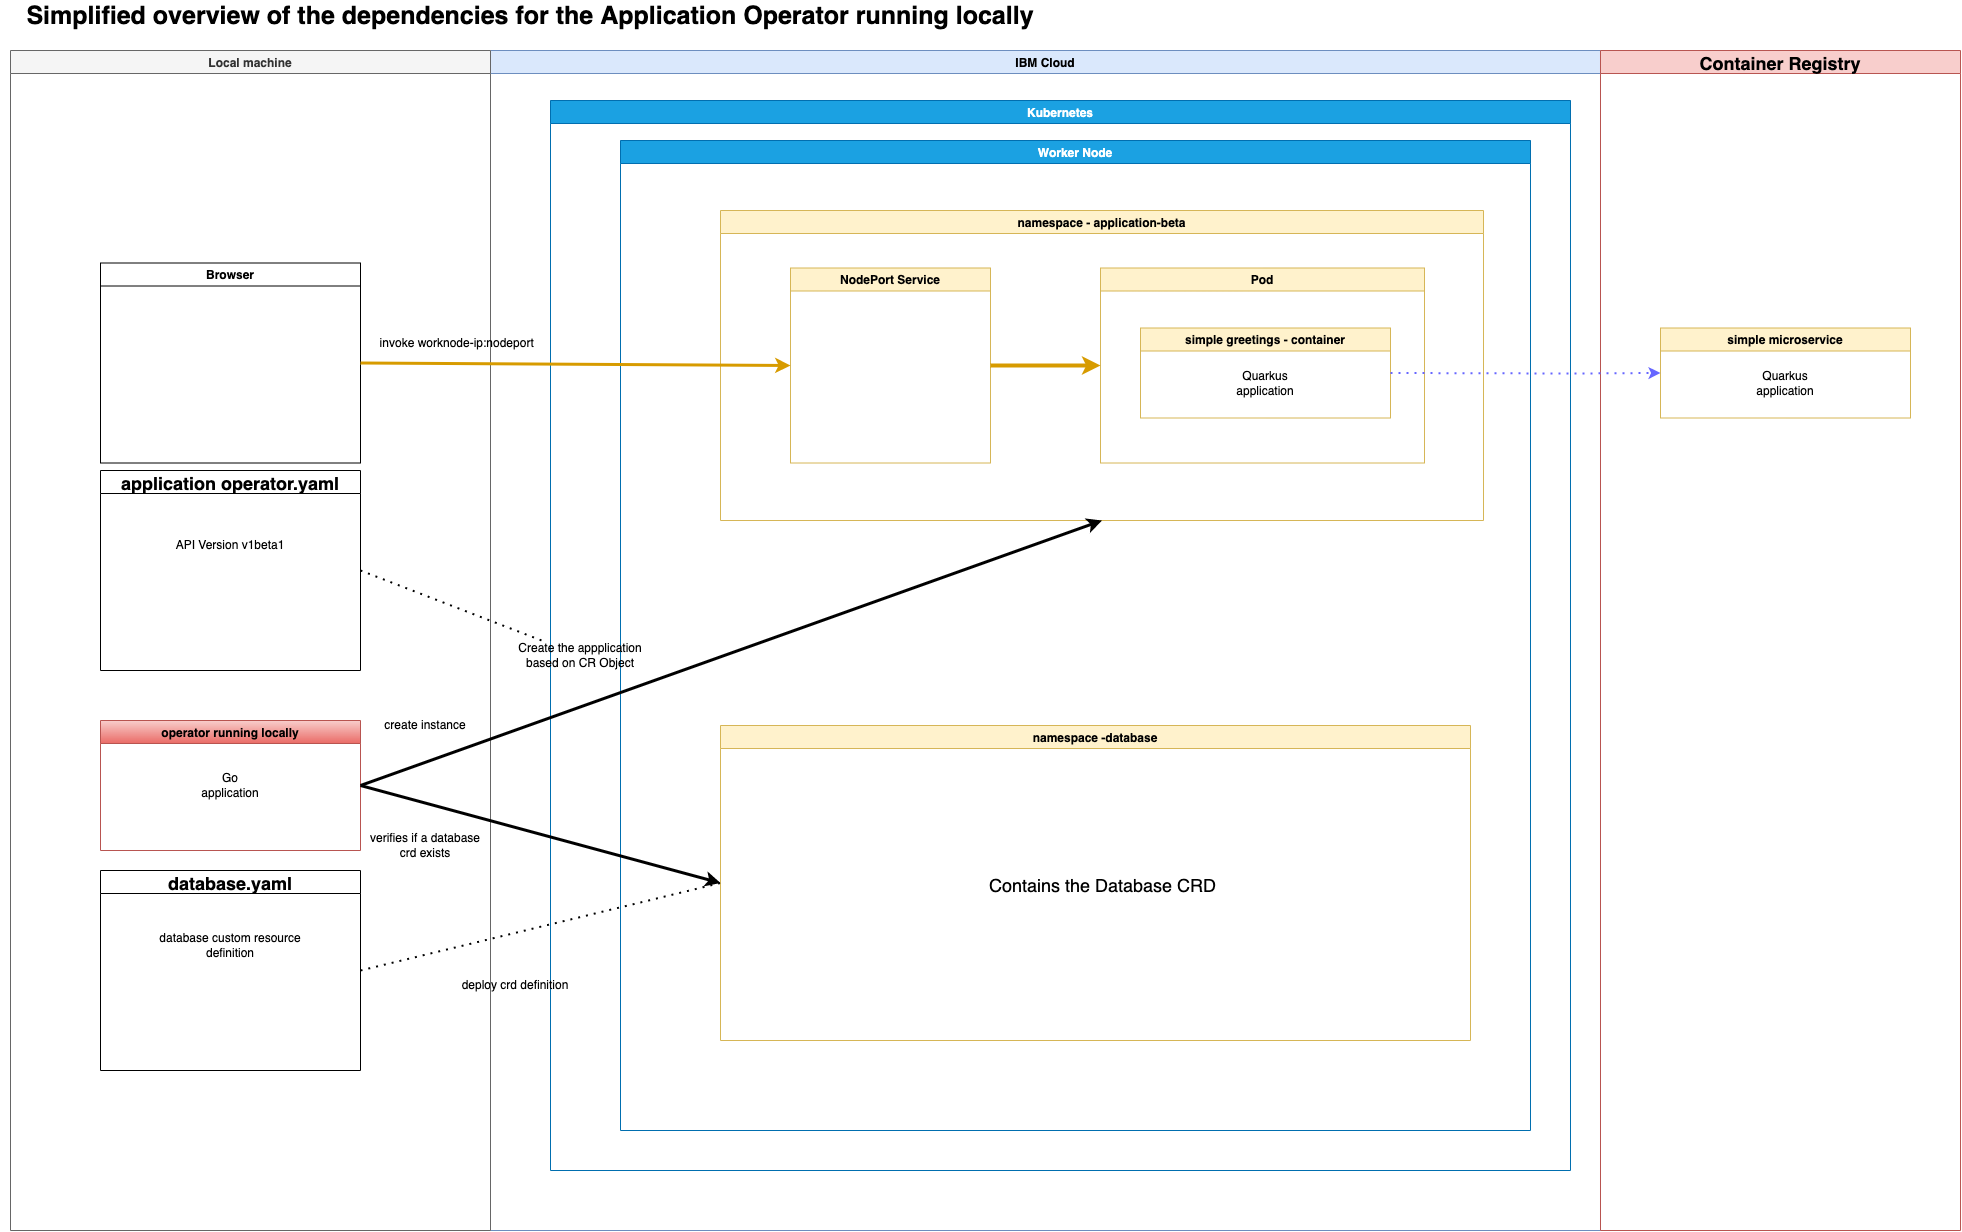
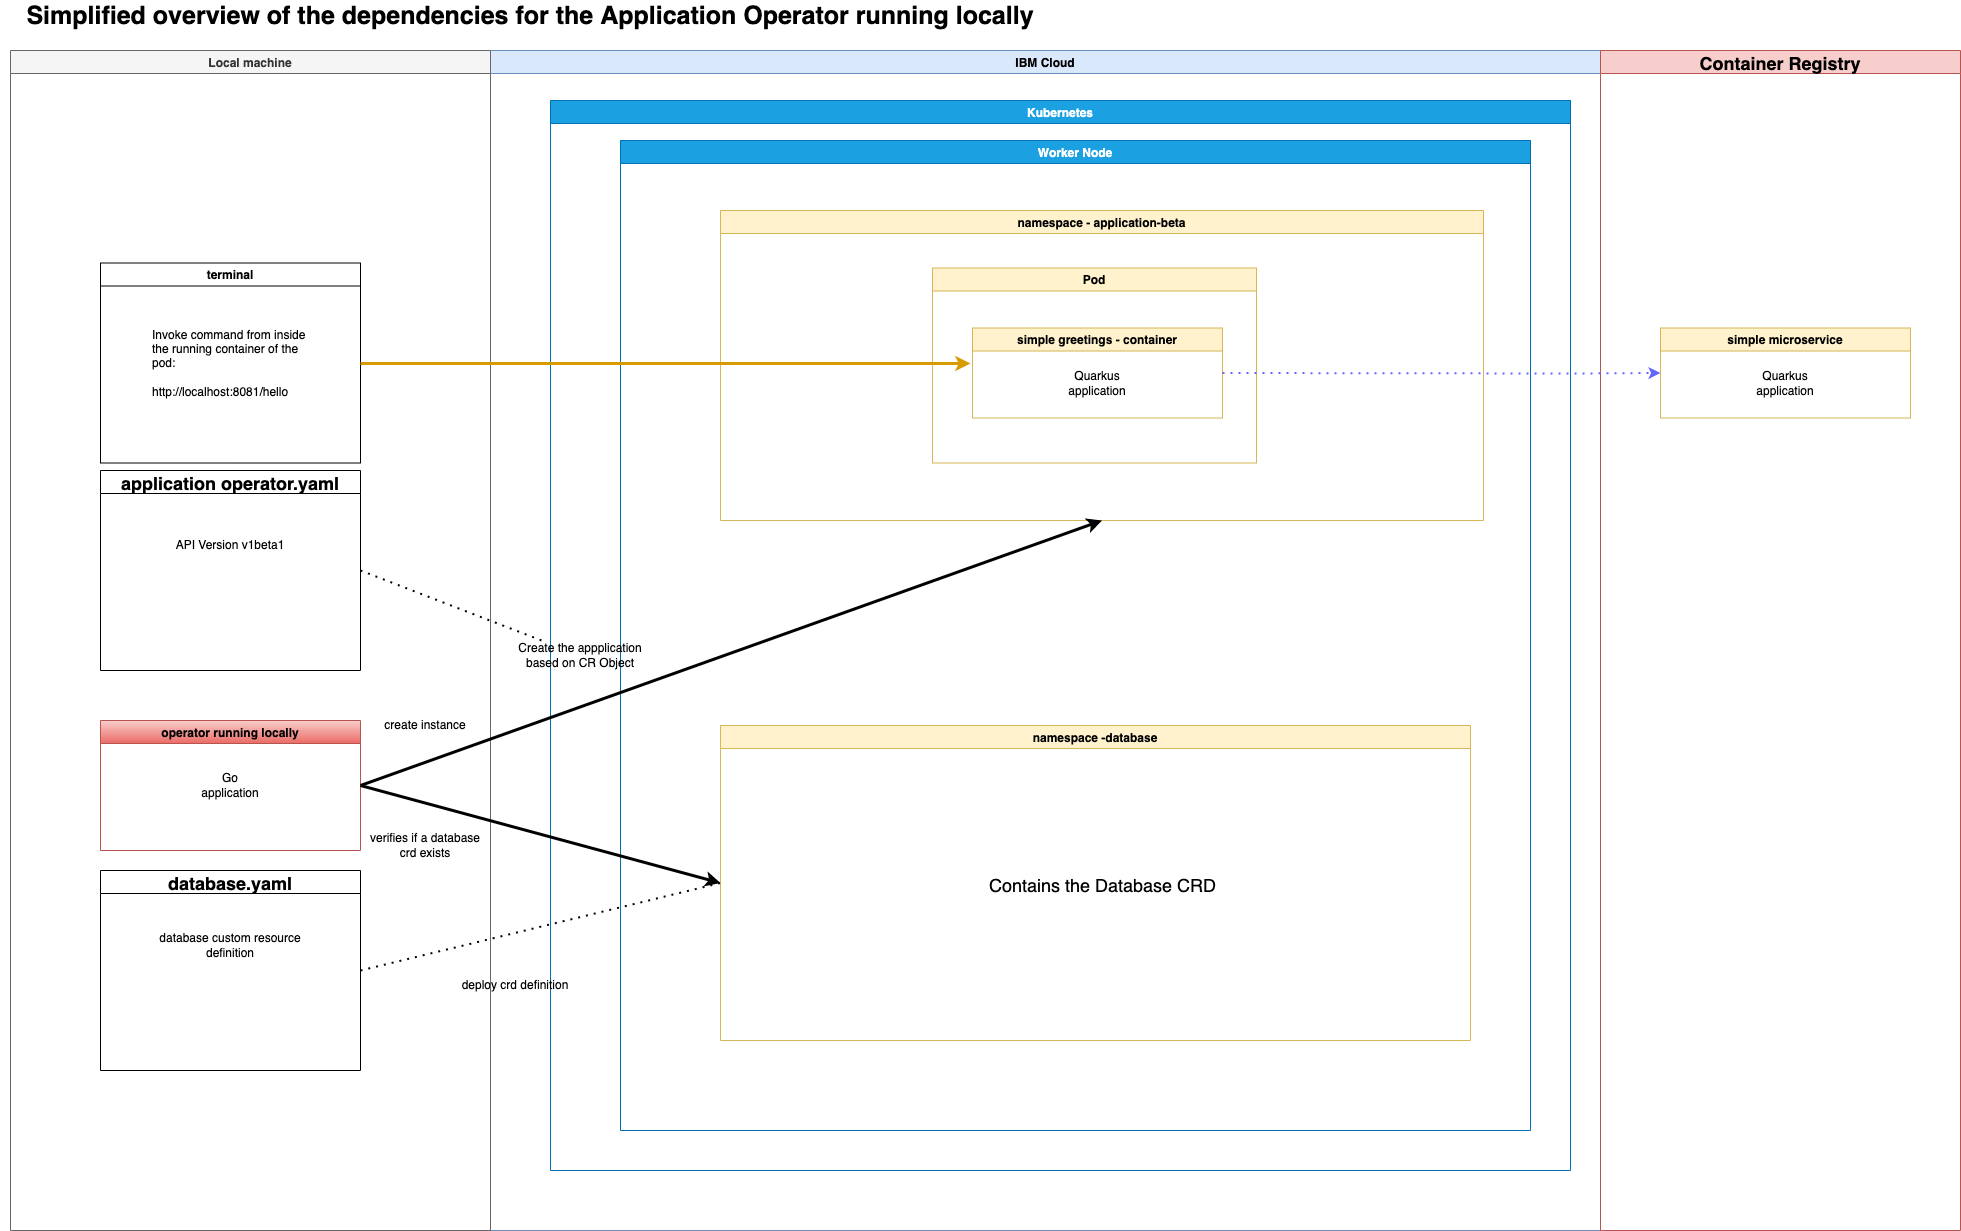
update setup local

diff --git a/documentation/SetupLocal.md b/documentation/SetupLocal.md
@@ -23,7 +23,7 @@ kubectl apply -f ../operator-database/config/crd/bases/database.sample.third.par
 
 We will start two terminals:
 
-* From a terminal run this command to run the operator locally:
+#### Step 1: From a terminal run this command to run the operator locally:
 
 ```sh
 make generate
@@ -33,17 +33,34 @@ make install run ENABLE_WEBHOOKS=false
 
 >  🔴 IMPORTANT - Known issue: The repo has been tested with **operator-sdk v1.18.1**. Note that there is an issue with this version. It doesn't download the **tools** in the **'bin'** directory. You need to init a new temporary new project for example `operator-sdk init --domain example.com --repo github.com/example/memcached-operator` and copy the downloaded four files from the 'bin' directoy into both operators directories (Application Operator and the Database Operator).
 
-* From another terminal run this command to deploy a custom resoure inside the Kubernetes cluster:
+#### Step 2: From another terminal run this command to deploy a custom resource inside the Kubernetes cluster (ensure you are in `operator-application` directory):
 
 ```sh
 kubectl apply -f config/samples/application.sample_v1beta1_application.yaml
 ```
 
-Debug the operator (without webhooks):
+#### Step 3: Go back to the first terminal and verify the output
 
-To debug, press F5 (Run - Start Debugging) instead of 'make install run'. The directory 'operator-application' needs to be root in VSCode.
+You should see the operator was creating resources.
 
-### Verify the setup
+* Example output:
+
+```sh
+1.6509813066540182e+09  INFO    controller.application    Reconcile started       {"reconciler group": "application.sample.ibm.com", "reconciler kind": "Application", "name": "application", "namespace": "application-beta"}
+Kubernetes Server Version: v1.23.5+IKS
+Custom Resource Values:
+- Name: application
+- Namespace: application-beta
+- Version: 1.0.0
+- AmountPods: 1
+- DatabaseName: database
+- DatabaseNamespace: database
+1.650981308668996e+09   INFO    controller.application    Database resource database not found. Creating or re-creating database    {"reconciler group": "application.sample.ibm.com", "reconciler kind": "Application", "name": "application", "namespace": "application-beta"}
+```
+
+#### Step 4: Go back to the second terminal and verify the setup
+
+Run following commands
 
 * Get the `Custom Resource Definition` for the `Application Operator`
 
@@ -51,13 +68,111 @@ To debug, press F5 (Run - Start Debugging) instead of 'make install run'. The di
 kubectl get applications.application.sample.ibm.com/application -n application-beta -oyaml
 ```
 
+* Example output:
+
+```sh
+apiVersion: application.sample.ibm.com/v1beta1
+kind: Application
+metadata:
+  annotations:
+    kubectl.kubernetes.io/last-applied-configuration: |
+      {"apiVersion":"application.sample.ibm.com/v1beta1","kind":"Application","metadata":{"annotations":{},"name":"application","namespace":"application-beta"},"spec":{"amountPods":1,"databaseName":"database","databaseNamespace":"database","title":"movies","version":"1.0.0"}}
+  creationTimestamp: "2022-04-26T13:55:06Z"
+  generation: 1
+  name: application
+  namespace: application-beta
+  resourceVersion: "6642069"
+  uid: b69b86c5-9a11-46d5-8126-a03fbcad5d87
+spec:
+  amountPods: 1
+  databaseName: database
+  databaseNamespace: database
+  schemaUrl: https://raw.githubusercontent.com/IBM/multi-tenancy/main/installapp/postgres-config/create-populate-tenant-a.sql
+  title: movies
+  version: 1.0.0
+status:
+  conditions:
+  - lastTransitionTime: "2022-04-26T13:55:06Z"
+    message: Resource found in k18n
+    reason: ResourceFound
+    status: "True"
+    type: ResourceFound
+  - lastTransitionTime: "2022-04-26T13:55:08Z"
+    message: All requirements met, attempting install
+    reason: AllRequirementsMet
+    status: "True"
+    type: InstallReady
+  - lastTransitionTime: "2022-04-26T13:55:09Z"
+    message: The database exists
+    reason: DatabaseExists
+    status: "True"
+    type: DatabaseExists
+  - lastTransitionTime: "2022-04-26T13:55:09Z"
+    message: Application has been installed
+    reason: InstallSucceeded
+    status: "True"
+    type: Succeeded
+  schemaCreated: false
+```
+
+* Execute the curl command from inside the running pod of the `application-microservice`
+
 ```sh
 kubectl exec -n application-beta $(kubectl get pods -n application-beta | awk '/application-deployment-microservice/ {print $1;exit}') --container application-microservice -- curl -s http://localhost:8081/hello
 ```
 
-### Delete all resources
+* Example output:
 
+```sh
+Hello World
 ```
-$ kubectl delete -f config/samples/application.sample_v1beta1_application.yaml
-$ make uninstall
+
+#### Step 5: (Optional) Debug the operator (without webhooks):
+
+To debug, press F5 (Run - Start Debugging) instead of 'make install run'. The directory 'operator-application' needs to be root in VSCode.
+
+### Step 6: Delete all resources
+
+
+* Delete the `simple microservice` instance
+
+```sh
+kubectl delete -f config/samples/application.sample_v1beta1_application.yaml
+```
+
+* Example output:
+
+```sh
+namespace "application-beta" deleted
+application.application.sample.ibm.com "application" deleted
+```
+
+* Stop the execution in the first terminal
+
+* Uninstall the Application Operator components
+
+```sh
+make uninstall
+```
+
+* Example output:
+
+```sh
+operator-application/bin/controller-gen rbac:roleName=manager-role crd webhook paths="./..." output:crd:artifacts:config=config/crd/bases
+/Users/thomassuedbroecker/Downloads/dev/operator-sample-go/operator-application/bin/kustomize build config/crd | kubectl delete --ignore-not-found=false -f -
+customresourcedefinition.apiextensions.k8s.io "applications.application.sample.ibm.com" deleted
+```
+
+* Delete the database custom resource definition
+
+```sh
+kubectl delete -f ../operator-database/config/crd/bases/database.sample.third.party_databases.yaml
+kubectl delete namespace database
+```
+
+* Example output:
+
+```sh
+customresourcedefinition.apiextensions.k8s.io "databases.database.sample.third.party" deleted
+namespace "database" deleted
 ```
